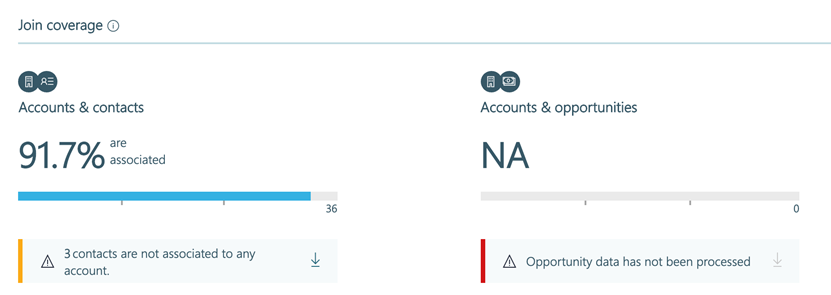
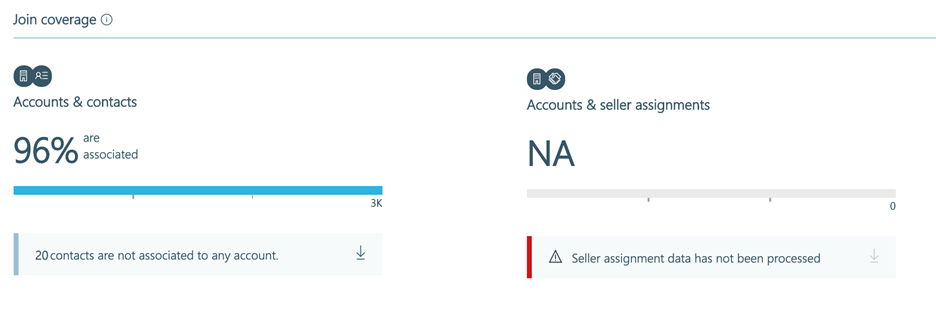
updates for crm data
screenshots

diff --git a/WorkplaceAnalytics/Use/Data-sources.md b/WorkplaceAnalytics/Use/Data-sources.md
@@ -118,17 +118,17 @@ For more information about what data is needed for metric calculations, see:
 
 ## CRM data
 
-This page provides a high-level view of the latest available CRM data that was uploaded and successfully processed in Workplace Analytics. It includes the number of accounts, contacts, sales opportunities, and seller assignments that are available for data analysis.
+This page provides a high-level view of the latest available CRM data that was uploaded and successfully processed in Workplace Analytics. It includes the number of accounts, contacts, and seller assignments that are available for data analysis.
 
 By combining this data in Workplace Analytics, you can now analyze how sales activities connect to organizational outcomes. For example, you could analyze if the time your sales team spent with various accounts is proportionate to the revenue potential of those accounts, or if your top tier accounts are getting enough attention from your sales team?
 
 The **Join coverage** section describes the percent overlap between the uploaded list of accounts and the other uploaded lists of important CRM data, such as contacts and seller assignments, as shown in the following graphic. The higher the percentage overlap the more accurate analysis you can accomplish.
 
-![CRM data sources page](../images/wpa/Use/crm-data-sources.png)
+![CRM data sources page](../images/wpa/Use/crm-sources.png)
 
 For join coverage based on the latest data uploads, you might see one of the following important notices, as shown in the following graphic.
 
-* **Data is not associated**: This occurs when one or more attributes cannot be associated between the two sets of data for join coverage. You can select to download a .csv file and view the contacts or opportunities that can't be associated with the corresponding accounts in the accounts table.
+* **Data is not associated**: This occurs when one or more attributes cannot be associated between the two sets of data for join coverage. You can select to download a .csv file and view the contacts or sellers that can't be associated with the corresponding accounts in the accounts table.
 * **Data has not been processed**: This occurs when an upload hasn't been done yet, the data is currently being processed, or something failed during the validation or data processing phase. You can select the link to the Upload page and view the current status of the upload, correct any issues, or upload new data. You can also ignore this warning, if you don't plan to upload that specific data file.
 
 ![CRM join notices](../images/wpa/Use/crm-join-notices.png)
